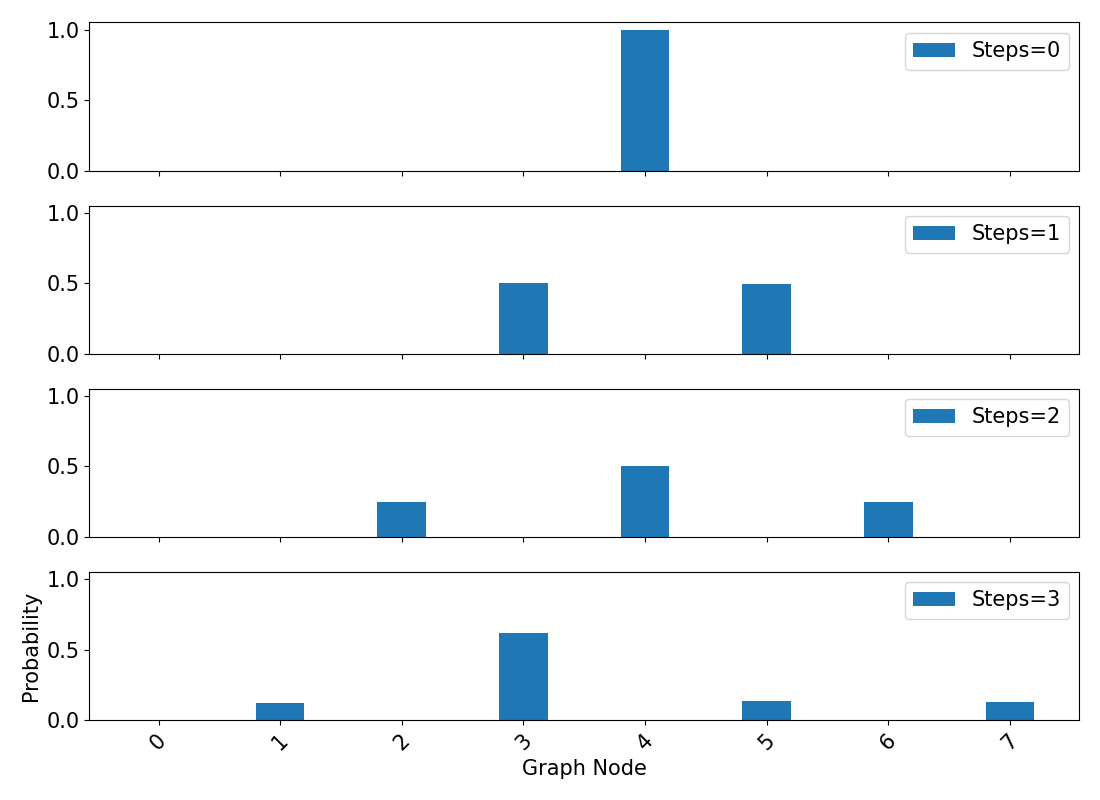
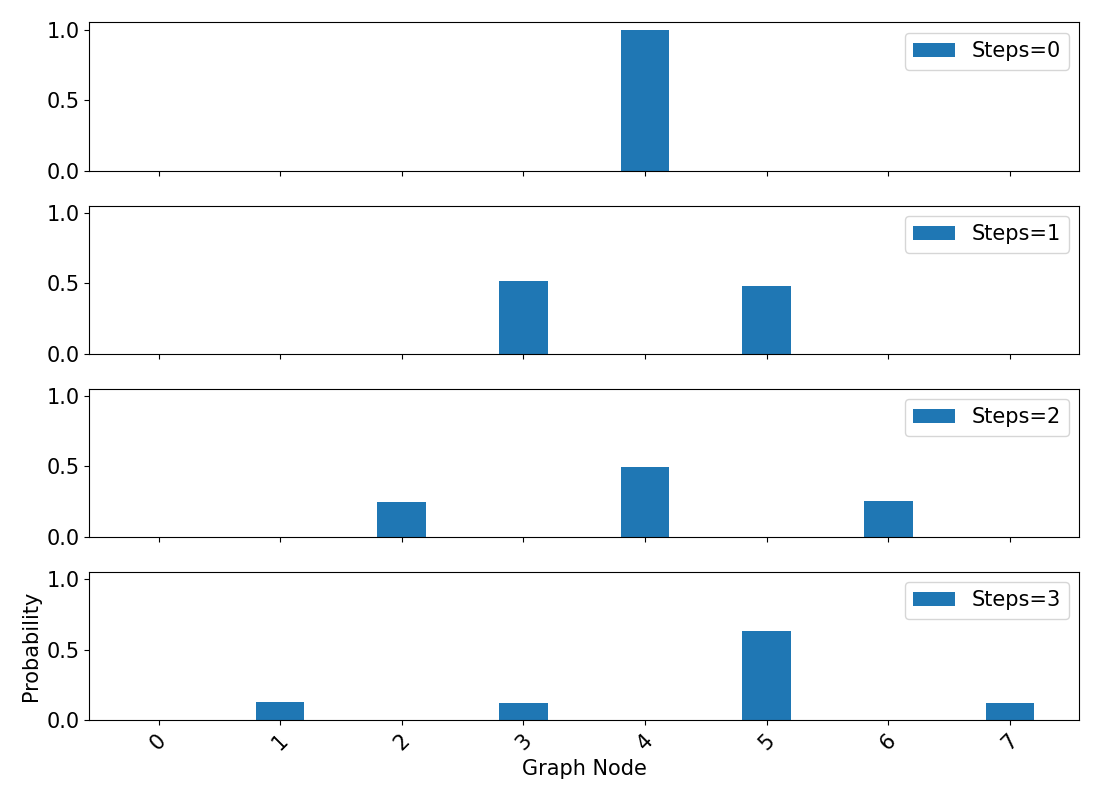
update to chapter4

Changed region(s): [[0.6491, 0.7812, 0.7418, 0.875], [0.4327, 0.7812, 0.5255, 0.9062]]

diff --git a/Chapters/Chapter4/coinedQWQiskit.tex b/Chapters/Chapter4/coinedQWQiskit.tex
@@ -79,9 +79,6 @@ In order to run this circuit on a real quantum computer using Qiskit, one must f
 	U = \phi AXBXC,
 \end{equation}
 where $ABC=I$, $X$ is the Pauli-X and $\phi$ is a phase operator described by $\phi=e^{i\delta} \times I$.\par
-In order to understand this method, a good first example is the Toffoli gate, as is shown in figure \ref{fig:toffoliDecompCircuit}. 
-%TODO: Explicar a decomposicao da cnot? Ver a dissertacao.
-%TODO: Target nao fica alinhado com as unitarias.
 \begin{figure}[!h]
 	\[ \Qcircuit @C=1em @R=1em { & \ctrl{2} & \qw & \\
 			&\ctrl{1} &\qw & = &  \\
@@ -95,6 +92,9 @@ In order to understand this method, a good first example is the Toffoli gate, as
 	\caption{Toffoli decomposition}
 	\label{fig:toffoliDecompCircuit}
 \end{figure}
+In order to understand this method, a good first example is the Toffoli gate, as is shown in figure \ref{fig:toffoliDecompCircuit}. 
+%TODO: Explicar a decomposicao da cnot? Ver a dissertacao.
+%TODO: Target nao fica alinhado com as unitarias.
 %TODO: Reescrever isto. A primeira rotacao nao e Rz.
 The first rotation in the circuit is defined by the $R_z$ matrix 
 \begin{equation}
@@ -117,9 +117,9 @@ and $\phi = \frac{\pi}{2}$. The following rotations are simply $R_z^\dagger$ and
 		0 & e^{i\delta}
 		 \end{pmatrix}
 \end{equation}
-where $\delta = -\frac{\pi}{2}$. This phase correction is needed because otherwise
+where $\delta = -\frac{\pi}{2}$. This phase correction is considered because otherwise
 \begin{equation}
-	R_z(\frac{\pi}{2})R_y(\frac{\pi}{2})XR_y(-\frac{\pi}{2})R_z(-\frac{\pi}{2}) = 
+	R_z(\frac{\pi}{2})R_y(\frac{\pi}{2})XR_y(-\frac{\pi}{2})XR_z(-\frac{\pi}{2}) = 
 	\begin{pmatrix}
 		0 & -i \\
 		-i & 0
@@ -171,13 +171,44 @@ A more generalized version of this method can be seen in figure \ref{fig:general
 	\caption{General decomposition}
 	\label{fig:generalDecompCircuit}
 \end{figure}
-This was the chosen method because it provides a way of implementing arbitrarily controlled CNOT gates without the use of ancillary qubits, which are a scarce resource.
+This was the chosen method because it provides a way of implementing arbitrarily controlled CNOT gates without the use of ancillary qubits, which are a scarce resource.\par
 
 \begin{figure}[!h]
 	\centering
-	\includegraphics[scale=0.40]{img/Qiskit/CoinedQuantumWalk/CoinedQW_N3_S0123.png}
-	\caption{Probability distribution for the staggered quantum walk on a line after 50 steps, with initial condition $\ket{\Psi(0)}=\frac{\ket{0}+\ket{1}}{\sqrt{2}}$, for multiple angles.} 
-	\label{fig:fig5}
+	\includegraphics[scale=0.35]{img/Qiskit/CoinedQuantumWalk/Circuits/circCoinedQW_N3_S3.png}
+	\caption{Temp} 
+	\label{fig:coinedQWCircuitQistkit}
 \end{figure}
+
+This circuit was implemented in Qiskit, as can be seen in figure \ref{fig:coinedQWCircuitQistkit}. In this example, the increment and decrement sequence was applied three times on a graph of size $2^3 =8$ nodes. The starting position of the walker was set to $\Psi(0) = \ket{4}$ and the Hadamard coin was used. The first block after the barrier is the sequence of operations that will increment the state of the walker, as is shown in figure \ref{fig:incrCircuitQistkit}. The circuit is simply the CNOT decomposition of figure \ref{fig:generalDecompCircuit} applied to the increment circuit of figure \ref{fig:coinedIncrement} for the $N=4$, qubit case.
+\begin{figure}[!h]
+	\centering
+	\includegraphics[scale=0.35]{img/Qiskit/CoinedQuantumWalk/Circuits/circIncr_N3_S3.png}
+	\caption{Temp} 
+	\label{fig:incrCircuitQistkit}
+\end{figure}
+The following block represents the decrement of the state of the walker, which is just an increment block with it's controls negated as is shown in figure \ref{fig:decrCircuitQistkit}. The rest of the circuit is just the repetition of these operations as a function of the number of time steps required.
+
+\begin{figure}[!h]
+	\centering
+	\includegraphics[scale=0.35]{img/Qiskit/CoinedQuantumWalk/Circuits/circDecr_N3_S3.png}
+	\caption{Temp} 
+	\label{fig:decrCircuitQistkit}
+\end{figure}
+Lastly, the circuit is measured and the results can be seen in figure \ref{fig:coinedQWQiskitDist}.These results can be verified by calculating the time evolution of the wave function associated with the system
+\begin{gather}
+	\ket{\Psi(0)} = \ket{4}\\
+	\ket{\Psi(1)} = \frac{\ket{0}\ket{x=3}+\ket{1}\ket{x=5}}{\sqrt{2}}\label{eq:10} \\
+	\ket{\Psi(2)} = \frac{\ket{0}\ket{x=2}+\ket{1}\ket{x=4}+\ket{0}\ket{x=4}-\ket{1}\ket{x=6}}{2}\\ \label{eq:11}
+	\ket{\Psi(3)} = \frac{\ket{1}\ket{x=1}-\ket{0}\ket{x=3}+2(\ket{0}+\ket{1})\ket{x=5}+\ket{0}\ket{x=7}}{2\sqrt{2}}.\label{eq:12}
+\end{gather}
+Taking the modulus squared of the amplitudes associated with the states, confirms that the probability distribution presented in figure \ref{fig:coinedQWQiskitDist} is correct. 
+\begin{figure}[!h]
+	\centering
+	\includegraphics[scale=0.40]{img/Qiskit/CoinedQuantumWalk/CoinedQW_N3_S0123.png}
+	\caption{Temp} 
+	\label{fig:coinedQWQiskitDist}
+\end{figure}
+%TODO: Pensar numa conclusao para esta seccao. Talvez por N=5? Explicar cada passo de N=5 nao e fazivel.
 
 \end{document}

diff --git a/Chapters/Chapter2/Sections/groverAlgorithm.tex b/Chapters/Chapter2/Sections/groverAlgorithm.tex
@@ -1,5 +1,5 @@
 	\section{Grover's Algorithm}\label{chapGrover}
-	2earching through an unstructured database is a task classically achieved by exhaustively evaluating every element in the database. Assume there exists a black box (oracle) that can be asked to find out if two elements are equal. Since we're looking for a specific element in a database of size N, we'd have to query the oracle on average $\frac{N}{2}$ times, or in the worst case $N$ times.\par
+	Searching through an unstructured database is a task classically achieved by exhaustively evaluating every element in the database. Assume there exists a black box (oracle) that can be asked to find out if two elements are equal. Since we're looking for a specific element in a database of size N, we'd have to query the oracle on average $\frac{N}{2}$ times, or in the worst case $N$ times.\par
 	Grover's algorithm, presented in \cite{grover1996}, comes as a quantum alternative to this type of problems, taking advantage of superposition by increasing desirable states' amplitudes through a process called \textit{amplitude amplification}. This method has a quadratic gain over the classical counterpart \cite{boyer1996}, being able to find a target element with $\mathcal{O}(\sqrt{N})$ oracle complexity.\par
 	Let us now expand on the inner workings of the black box. We start by focusing on searching indexes     instead of directly evaluating the element and we assume $N=2^{n}$, $n$ being a positive integer. We can now define a function $f : \{0,1,...,N-1\}$ that returns $1$ when evaluating the desired (marked) element and $0$ otherwise. Since this function is to be applied to a quantum system, we must build a unitary operator $\mathcal{F}$
 	\begin{equation}

diff --git a/Chapters/Chapter4/searchProblemsQiskit.tex b/Chapters/Chapter4/searchProblemsQiskit.tex
@@ -3,21 +3,21 @@
 
 \subsection{Grover}
 
-\begin{figure}[!h]
-	\centering
-	\includegraphics[scale=0.40]{img/Qiskit/GroverQiskit/GroverQiskitSearch_N3_M1_S012}
-	\caption{Probability distribution for the staggered quantum walk on a line after 50 steps, with initial condition $\ket{\Psi(0)}=\frac{\ket{0}+\ket{1}}{\sqrt{2}}$, for multiple angles.} 
-	\label{fig:fig5}
-\end{figure}
-
+%\begin{figure}[!h]
+%	\centering
+%	\includegraphics[scale=0.40]{img/Qiskit/GroverQiskit/GroverQiskitSearch_N3_M1_S012}
+%	\caption{Probability distribution for the staggered quantum walk on a line after 50 steps, with initial condition $\ket{\Psi(0)}=\frac{\ket{0}+\ket{1}}{\sqrt{2}}$, for multiple angles.} 
+%	\label{fig:fig5}
+%\end{figure}
+%
 \subsection{Coined}
-
-\begin{figure}[!h]
-	\centering
-	\includegraphics[scale=0.40]{img/Qiskit/CoinedQuantumWalk/Search/CoinedQiskitSearch_N4_M1_S01234}
-	\caption{Probability distribution for the staggered quantum walk on a line after 50 steps, with initial condition $\ket{\Psi(0)}=\frac{\ket{0}+\ket{1}}{\sqrt{2}}$, for multiple angles.} 
-	\label{fig:fig5}
-\end{figure}
+%
+%\begin{figure}[!h]
+%	\centering
+%	\includegraphics[scale=0.40]{img/Qiskit/CoinedQuantumWalk/Search/CoinedQiskitSearch_N4_M1_S01234}
+%	\caption{Probability distribution for the staggered quantum walk on a line after 50 steps, with initial condition $\ket{\Psi(0)}=\frac{\ket{0}+\ket{1}}{\sqrt{2}}$, for multiple angles.} 
+%	\label{fig:fig5}
+%\end{figure}
 
 %TODO: Fazer com outra moeda usando u3 com valores intermedios entre pi/2 ou pi/4
 \subsection{Continuous}
